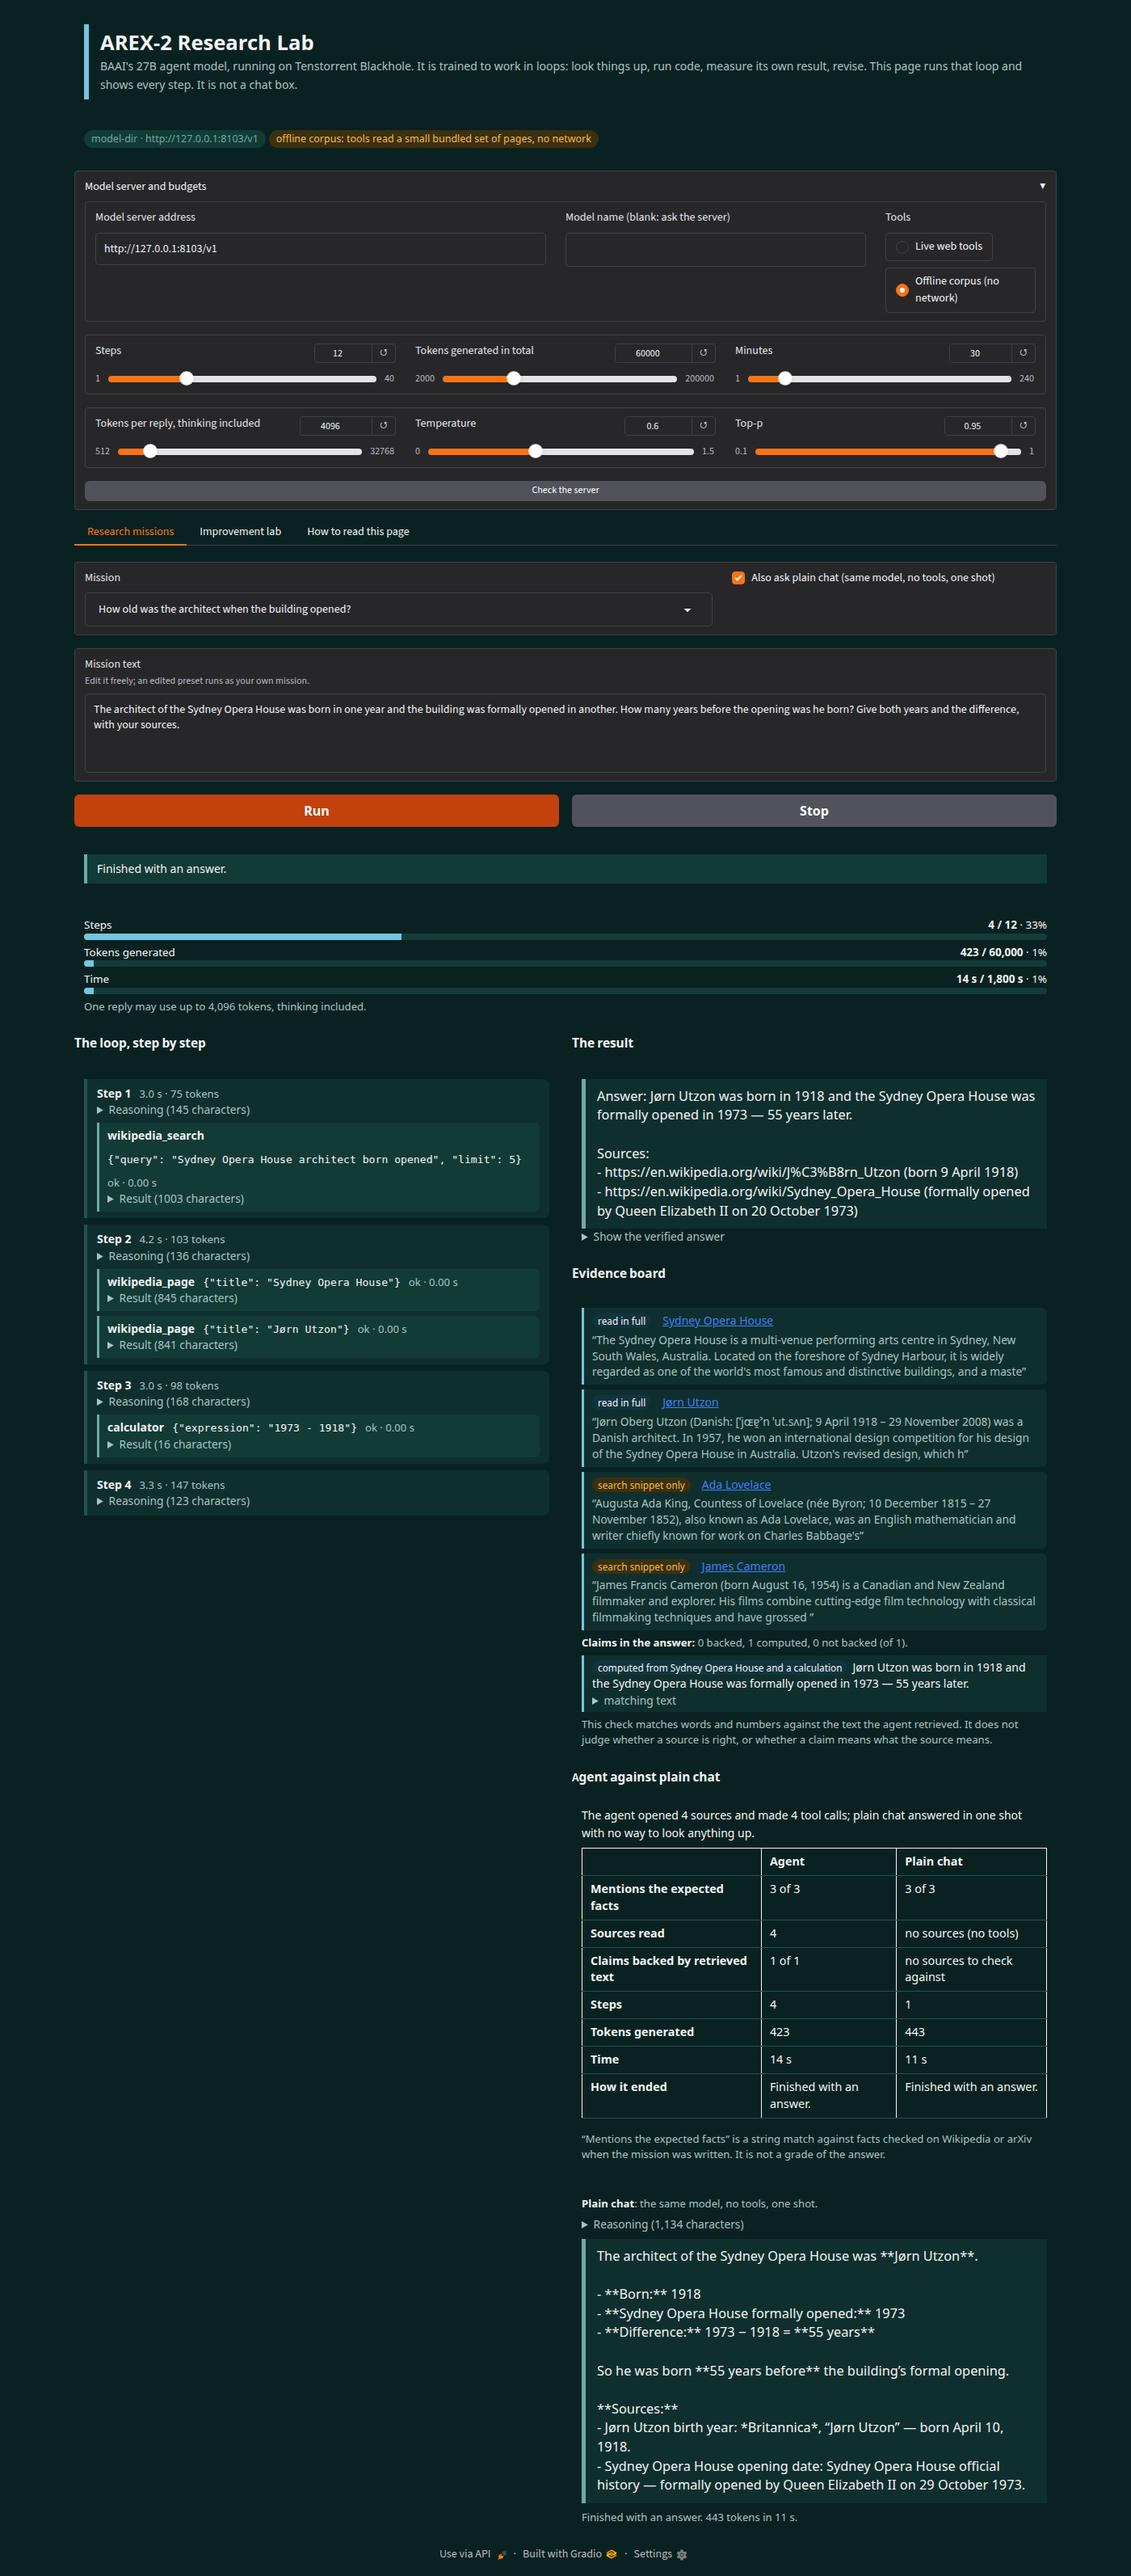
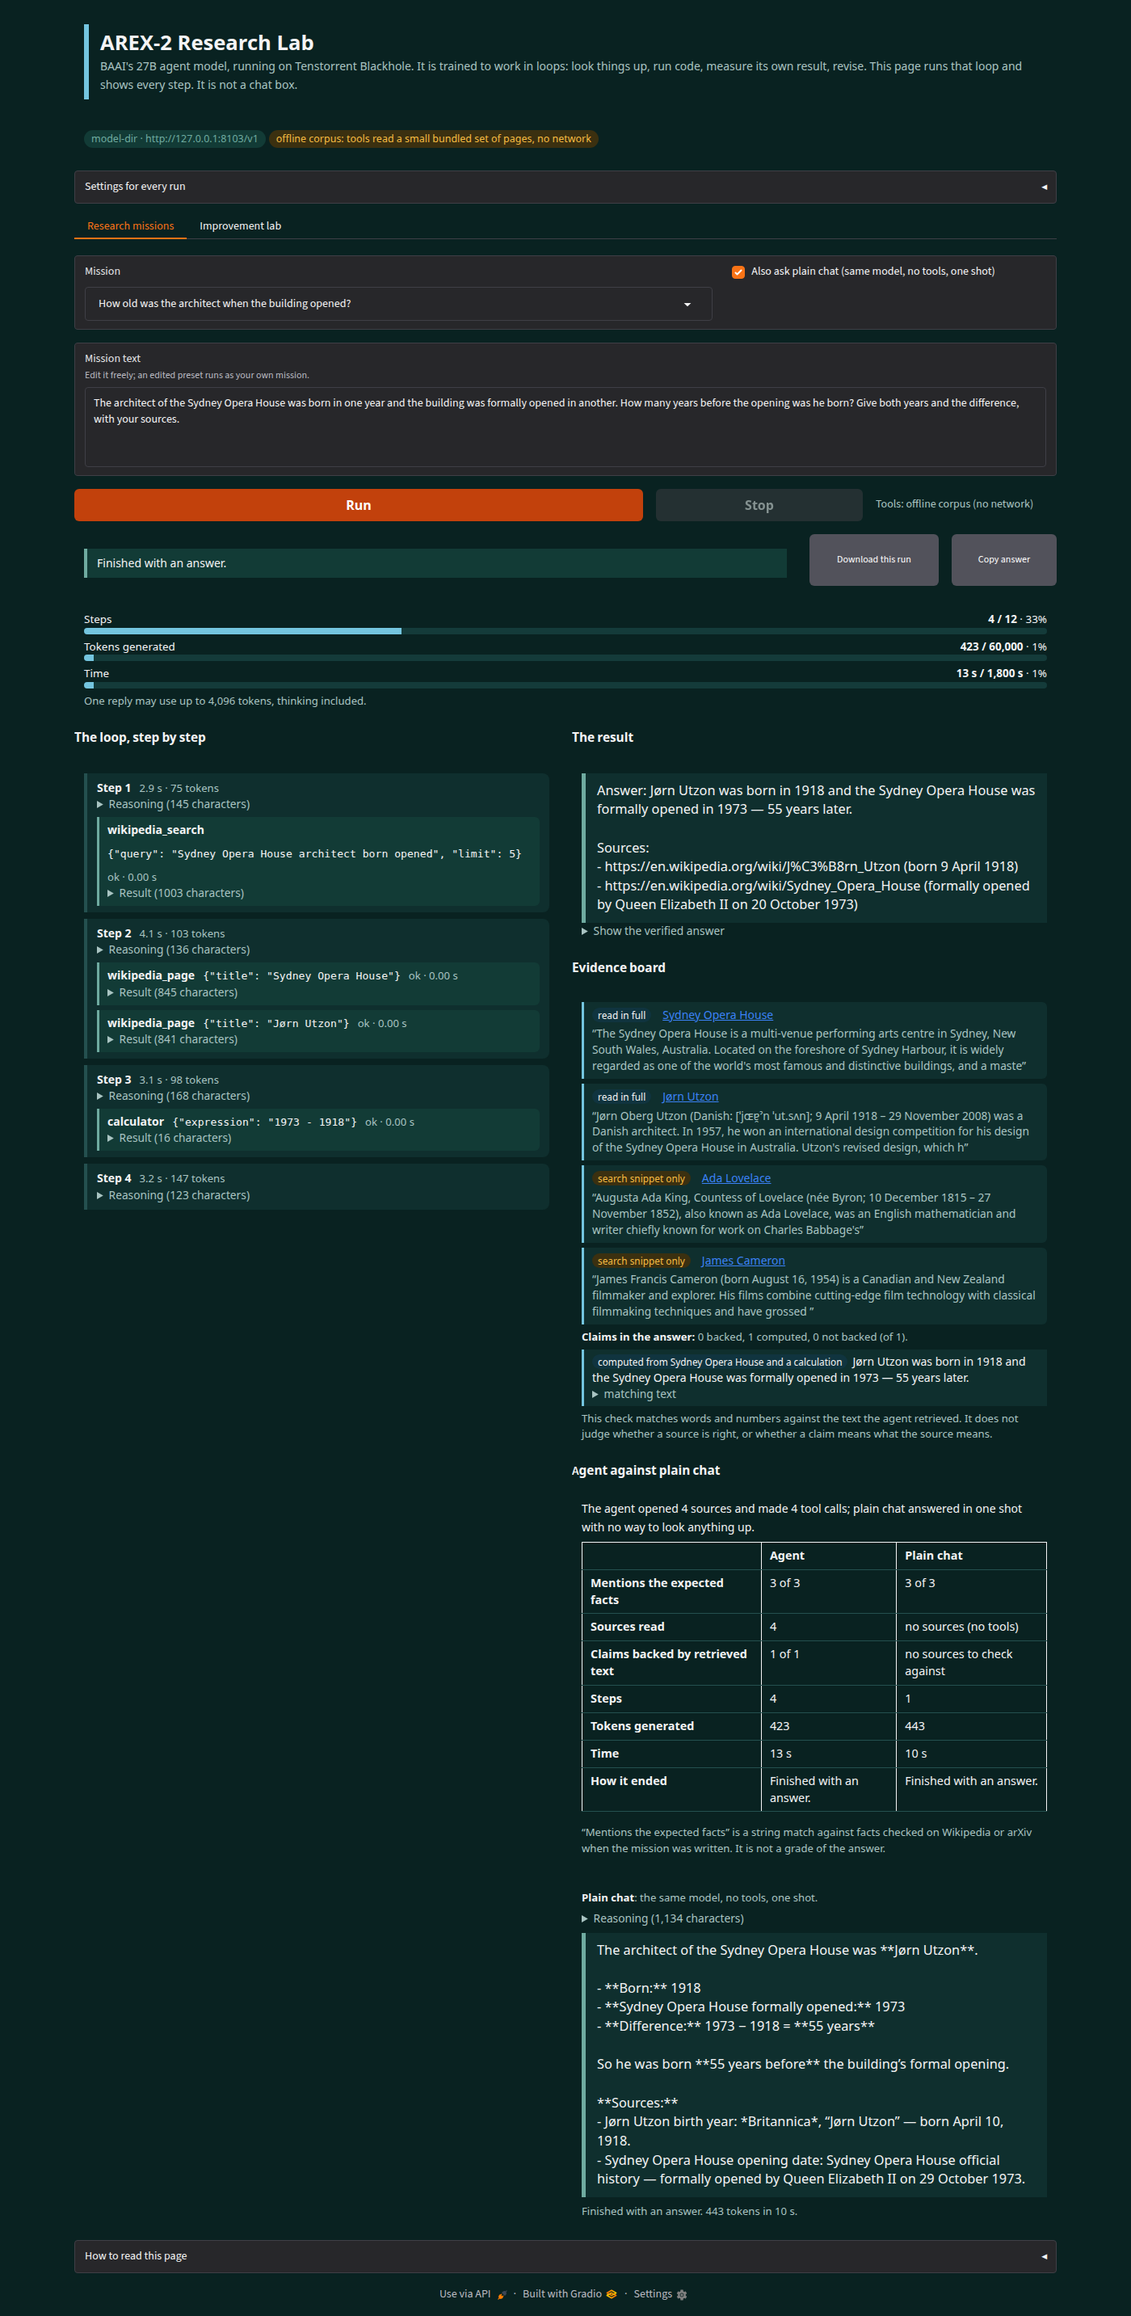
Screenshots retaken with the real model in the new layout; README matches these runs; tools/screenshots_real.py makes them

Changed region(s): [[0.0614, 0.0, 0.9521, 0.9937]]

diff --git a/tools/screenshots_real.py b/tools/screenshots_real.py
@@ -1,0 +1,139 @@
+#!/usr/bin/env python3
+# SPDX-License-Identifier: Apache-2.0
+# SPDX-FileCopyrightText: 2026 Tenstorrent AI ULC
+"""Take the README screenshots of the page running against the REAL AREX-2 (the `episod/arex-2-p300` package on 2 chips).
+
+    gozer run --chips 2 --who "you:arex2" --reason "screenshots" -- .venv/bin/python serve/serve_arex2.py --ui
+    python tools/screenshots_real.py http://127.0.0.1:7872/    # in any Python that has the `playwright` package; uses /usr/bin/google-chrome
+
+It writes docs/settings-light.png, docs/lab-edit-distance-light.png, docs/research-done-light.png, docs/research-done-dark.png and
+docs/research-live-light.png. Each is one run of the real model and not a benchmark, and the model's replies differ a little from run to run.
+
+Before each screenshot the served model directory's path and the user's home directory are replaced in the page text, and the script stops
+if a home path or a stand-in badge is still visible. Buttons are matched by their exact names: a match on "Run" alone also finds the
+"Settings for every run" header and "Download this run".
+"""
+from __future__ import annotations
+
+import re
+import sys
+import time
+from pathlib import Path
+
+from playwright.sync_api import expect, sync_playwright
+
+OUT = Path(__file__).resolve().parent.parent / "docs"
+CHROME = "/usr/bin/google-chrome"
+# The served model directory is a path under the user's home; show `model-dir`. Any other home path becomes `~`.
+REDACT = """() => {
+  const w = document.createTreeWalker(document.body, NodeFilter.SHOW_TEXT); let n;
+  while ((n = w.nextNode())) {
+    n.nodeValue = n.nodeValue.replace(/\\/home\\/[^\\s·]*\\/model-dir/g, "model-dir").replace(/\\/home\\/[^\\s·]*/g, "~");
+  }
+  for (const e of document.querySelectorAll("input, textarea")) { e.value = e.value.replace(/\\/home\\/[^\\s·]*\\/model-dir/g, "model-dir"); }
+}"""
+
+
+def shot(page, name: str) -> None:
+    page.evaluate(REDACT)
+    text = page.inner_text("body")
+    assert "/home/" not in text, f"a home path is still on the page for {name}"
+    assert "SCRIPTED-FAKE-MODEL" not in text, f"the page points at the stand-in for {name}"
+    page.screenshot(path=str(OUT / name), full_page=True)
+    print("wrote", name, flush=True)
+
+
+def fresh(browser, url: str, scheme: str):
+    ctx = browser.new_context(viewport={"width": 1400, "height": 1000}, color_scheme=scheme)
+    page = ctx.new_page()
+    page.goto(url)
+    page.wait_for_selector("text=Settings for every run", timeout=60000)
+    return ctx, page
+
+
+def wait_text(page, marker: str, ms: int) -> None:
+    page.wait_for_function("(m) => document.body.innerText.includes(m)", arg=marker, timeout=ms)
+
+
+def wait_plain_chat(page, ms: int) -> None:
+    """The plain-chat panel finishes after the agent. Its last line ends 'N tokens in S s.' whether it answered or ran out of its token limit."""
+    page.wait_for_function(
+        "() => { const t = document.body.innerText; const i = t.indexOf('Plain chat:');"
+        " return i >= 0 && /[0-9,]+ tokens in [0-9.]+ s/.test(t.slice(i)); }", timeout=ms)
+
+
+def wait_settled(page, ms: int = 120000) -> None:
+    """After a run the page unlocks Run, Download this run and Copy answer. A screenshot taken before that shows them greyed.
+    Both tabs have these buttons, so the check uses the visible ones (a role query skips the hidden tab)."""
+    expect(page.get_by_role("button", name="Download this run", exact=True)).to_be_enabled(timeout=ms)
+    expect(page.get_by_role("button", name="Copy answer", exact=True)).to_be_enabled(timeout=ms)
+    expect(page.get_by_role("button", name="Run", exact=True)).to_be_enabled(timeout=ms)
+    # The page unlocks the buttons in steps as the plain-chat panel and the scorecard finish. Wait, then check again, so a re-lock is caught.
+    page.wait_for_timeout(3000)
+    expect(page.get_by_role("button", name="Download this run", exact=True)).to_be_enabled(timeout=ms)
+    expect(page.get_by_role("button", name="Copy answer", exact=True)).to_be_enabled(timeout=ms)
+    expect(page.get_by_role("button", name="Run", exact=True)).to_be_enabled(timeout=ms)
+
+
+def pick_mission(page, option: str, nth: int) -> None:
+    page.locator("input[role='listbox'], input[aria-label='Mission']").nth(nth).click()
+    page.get_by_role("option", name=option, exact=True).click()
+
+
+def run_button(page):
+    return page.get_by_role("button", name="Run", exact=True)
+
+
+def main(url: str) -> int:
+    OUT.mkdir(parents=True, exist_ok=True)
+    with sync_playwright() as p:
+        browser = p.chromium.launch(executable_path=CHROME, headless=True, args=["--no-sandbox"])
+        # 1. the settings, open, on the research tab
+        ctx, page = fresh(browser, url, "light")
+        page.get_by_text("Settings for every run").click()
+        page.wait_for_selector("text=Connection")
+        shot(page, "settings-light.png")
+        ctx.close()
+        # 2. the improvement lab: the model tests its own code and submits it to the sandbox (settings closed)
+        ctx, page = fresh(browser, url, "light")
+        page.get_by_role("tab", name="Improvement lab").click()
+        pick_mission(page, "Edit distance between two strings", 1)
+        t0 = time.time()
+        run_button(page).last.click()
+        wait_text(page, "Lab score", 2400000)
+        wait_plain_chat(page, 900000)
+        wait_settled(page)
+        print("lab done in", round(time.time() - t0), "s", flush=True)
+        shot(page, "lab-edit-distance-light.png")
+        ctx.close()
+        # 3. a research mission with the offline corpus, light and dark
+        for scheme in ("light", "dark"):
+            ctx, page = fresh(browser, url, scheme)
+            page.get_by_text("Settings for every run").click()
+            page.get_by_label("Offline corpus (no network)").check()
+            page.get_by_text("Settings for every run").click()          # close it again
+            t0 = time.time()
+            run_button(page).first.click()
+            wait_text(page, "Sources read", 1200000)
+            wait_plain_chat(page, 900000)
+            wait_settled(page)
+            print(scheme, "research done in", round(time.time() - t0), "s", flush=True)
+            shot(page, f"research-done-{scheme}.png")
+            ctx.close()
+        # 4. a research mission with live tools (the page's default)
+        ctx, page = fresh(browser, url, "light")
+        pick_mission(page, "Who wrote the Transformer paper", 0)
+        t0 = time.time()
+        run_button(page).first.click()
+        wait_text(page, "Sources read", 1200000)
+        wait_plain_chat(page, 900000)
+        wait_settled(page)
+        print("live research done in", round(time.time() - t0), "s", flush=True)
+        shot(page, "research-live-light.png")
+        ctx.close()
+        browser.close()
+    return 0
+
+
+if __name__ == "__main__":
+    sys.exit(main(sys.argv[1] if len(sys.argv) > 1 else "http://127.0.0.1:7872/"))

diff --git a/README.md b/README.md
@@ -35,11 +35,13 @@ When a run ends, **Download this run** and **Copy answer** turn on beside the st
 
 ## What ran on the real model
 
-> The screenshots below show the layout before this change. The settings were one accordion called "Model server and budgets", the Check button was under the sliders, the "How to read this page" text was a tab, and there were no Download or Copy buttons. They will be retaken with the real model.
+On 2026-10-23 the page ran against the published package `episod/arex-2-p300` (2 chips, speculative drafter on, sampling on the device), installed with `tt-model pull episod/arex-2-p300`. The images come from `tools/screenshots_real.py` and show the current layout. The model's replies differ a little from run to run, so a run of your own will not match them exactly. The model's tool calls parsed correctly through vLLM's `qwen3_coder` parser, and its reasoning came back in `reasoning_content`. These are one run of each kind. They show what the page does with the real model and are not a benchmark.
 
-On 2026-10-23 the page ran against the published package `episod/arex-2-p300` (2 chips, speculative drafter on, sampling on the device). The model's tool calls parsed correctly through vLLM's `qwen3_coder` parser, and its reasoning came back in `reasoning_content`. These are one run of each kind. They show what the page does with the real model and are not a benchmark.
+**The settings.** One accordion, `Settings for every run`, in three groups: Connection (the server address with its Check button, the model name and the tools), Limits (steps, total tokens, minutes) and Sampling (tokens per reply, temperature, top-p). It is closed by default. The tools mode is also written next to Run in each tab.
 
-**Research mission with the offline corpus: the Sydney Opera House architect.** The agent ran 4 steps (`wikipedia_search`, two `wikipedia_page` reads, `calculator`) in 14 to 29 seconds across the runs behind these screenshots. It answered that Jørn Utzon was born in 1918 and the building opened in 1973, 55 years later, and listed its sources. Plain chat gave the same years. It gave its own birth and opening dates, which differ from the dates in the sources the page shows.
+![The settings open: Connection, Limits and Sampling](docs/settings-light.png)
+
+**Research mission with the offline corpus: the Sydney Opera House architect.** The agent ran 4 steps (`wikipedia_search`, two `wikipedia_page` reads, `calculator`) in 13 seconds. It answered that Jørn Utzon was born in 1918 and the building opened in 1973, 55 years later, and listed its sources. Plain chat gave the same years. It gave its own birth and opening dates, which differ from the dates in the sources the page shows.
 
 ![The research mission, light theme](docs/research-done-light.png)
 
@@ -47,11 +49,11 @@ On 2026-10-23 the page ran against the published package `episod/arex-2-p300` (2
 
 The header badge in these two shows the offline corpus, as selected.
 
-**Research mission with live tools: the Transformer paper.** The agent called `arxiv_search`, then `fetch_url` on the arXiv abstract page, in 3 steps and 15 seconds. It answered that the paper lists 8 authors, that the last author is Illia Polosukhin, and that version 1 was posted on 12 June 2017. The page's claim check marked that answer "not backed". It matches words and numbers literally and listed 1, 12, 2017 and 8 as not found in the retrieved text. Counting names is outside what it does, and the authors and the submission date are in the text the agent retrieved. This is a limit of the check.
+**Research mission with live tools: the Transformer paper.** The agent called `arxiv_search`, then `fetch_url` on the arXiv abstract page, in 3 steps and 11 seconds. It answered that the paper lists 8 authors, that the last author is Illia Polosukhin, and that version 1 was posted on 12 June 2017. The page's claim check marked that answer "not backed". It matches words and numbers literally and listed 1, 12, 2017 and 8 as not found in the retrieved text. Counting names is outside what it does, and the authors and the submission date are in the text the agent retrieved. This is a limit of the check.
 
 ![A research mission with live tools: arxiv_search, fetch_url, the answer, the evidence board and the scorecard](docs/research-live-light.png)
 
-**Improvement lab: edit distance.** The model ran its own tests four times with `run_python`, then submitted once. The lab scored the submission 1.00 (10 of 10 tests, 0.10 seconds on the large input) after 7 steps and 122 seconds. It refused a second, identical submission as a repeated call, and the page shows that step in yellow. The model's final text says its first draft had the delete and substitute transitions swapped and that a brute-force cross-check on small random strings caught it before it submitted. The lab recorded a single submitted round, so the score chart has one point. Plain chat on the same task ran out of the page's 4,096-token reply limit while thinking and produced no code. That limit is a page setting and says nothing about the model.
+**Improvement lab: edit distance.** The model ran its own tests three times with `run_python`, then submitted once. The lab scored the submission 1.00 (10 of 10 tests, 0.11 seconds on the large input) after 5 steps and 82 seconds. The model's final text says nothing changed between rounds: the first submission scored full marks. The lab recorded a single submitted round, so the score chart has one point. Runs of the same task earlier the same day had final texts that described a bug the model caught in its own tests before it submitted, so the wording of that text varies from run to run. Plain chat on the same task ran out of the page's 4,096-token reply limit while thinking and produced no code. That limit is a page setting and says nothing about the model.
 
 Two problems found on that first run are fixed in this repository: the header badge did not follow the tools setting, and a failed server start showed only the end of the server log. The launcher now quotes the first real error with its line number.
 
